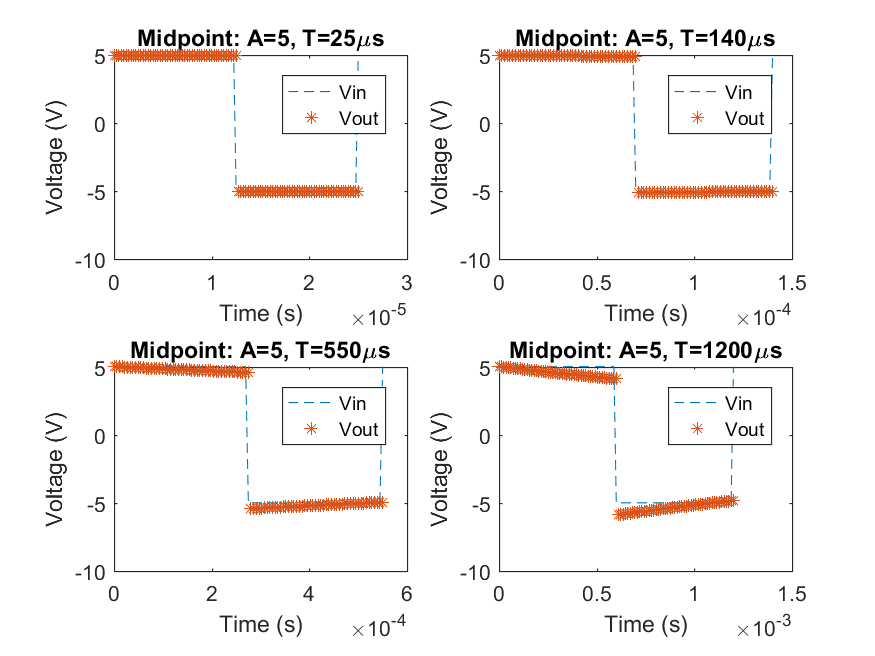
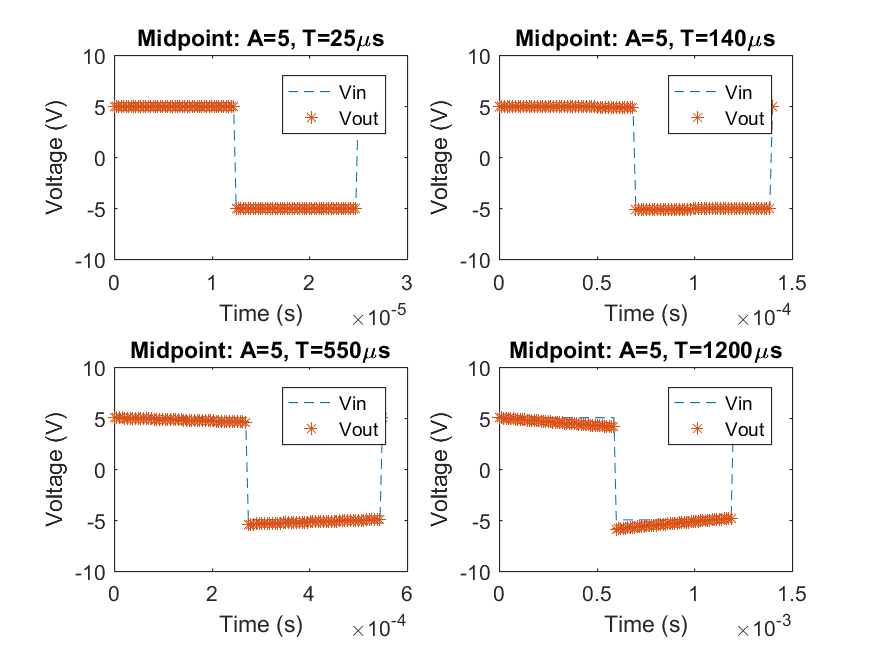
Fixed the bug in Ralstons and Midpoint - all now O(h^2)!

diff --git a/ex2/error_script.m b/ex2/error_script.m
@@ -1,4 +1,3 @@
-%TODO: Add Axis labels
 
 R = 0.5; %set resistor and inductor values
 L = 1.5e-3;
@@ -14,7 +13,7 @@ exact_c = -(5*T^2*R)/(T^2*R^2+4*pi^2*L^2);
 exact_i = @(t) (10*pi*T*L*sin(2*pi*t/T)+5*T^2*R*cos(2*pi*t/T))/... %continue to next line
     (T^2*R^2+4*pi^2*L^2)+ exact_c*exp(-R*t/L);
 
-max_ind = 5; %define the maximum index
+max_ind = 6; %define the maximum index
 ind2plot = 2; %define the index to plot for
 h_a = zeros(max_ind,1); %initialise array for step sizes
 me_h = zeros(max_ind,1); %initialise arrays for max errors
@@ -139,7 +138,7 @@ plot(log(h_a),log(me_m),'o');
 xlabel('log(h)') % x-axis label
 ylabel('log(Max Error)') % y-axis label
 grad = polyfit(log(h_a),log(me_m),1); %calculate the gradient of the line
-text(-20,-2,['Gradient = ' num2str(grad(1))]);
+text(-20,-15,['Gradient = ' num2str(grad(1))]);
 lsline %plot a least-squares regression line to match the gradient
 
 subplot(3,3,9);
@@ -147,6 +146,6 @@ plot(log(h_a),log(me_r),'o');
 xlabel('log(h)') % x-axis label
 ylabel('log(Max Error)') % y-axis label
 grad = polyfit(log(h_a),log(me_r),1); %calculate the gradient of the line
-text(-20,-2,['Gradient = ' num2str(grad(1))]);
+text(-20,-15,['Gradient = ' num2str(grad(1))]);
 lsline %plot a least-squares regression line to match the gradient
 print(['error'],'-dpng'); %print to file

diff --git a/ex1/midpoint.m b/ex1/midpoint.m
@@ -22,7 +22,7 @@ function [ t,vout ] = midpoint(f,t0,tf,N,i0,L,R)
         grad2=func(v_step,i_pred); % gradient at t+h/2
         i_L(n+1)=i_t+h*grad2; % new i from euler, using midpoint gradient
         
-        vout(n+1) = v_step - R*i_L(n+1); %get the output voltage
+        vout(n+1) = f(t(n+1)) - R*i_L(n+1); %get the output voltage
 
     end
 end

diff --git a/ex1/ralstons.m b/ex1/ralstons.m
@@ -26,8 +26,7 @@ function [ t,vout ] = ralstons(f,t0,tf,N,i0,L,R)
         
         i_L(n+1)=i_t + (k1+3*k2)/4; %combine k1 & k2 to get next i
         
-        vout(n+1) = v_step - R*i_L(n+1); %get the output voltage
-
+        vout(n+1) = f(t(n+1)) - R*i_L(n+1); %get the output voltage
     end
 end
 
